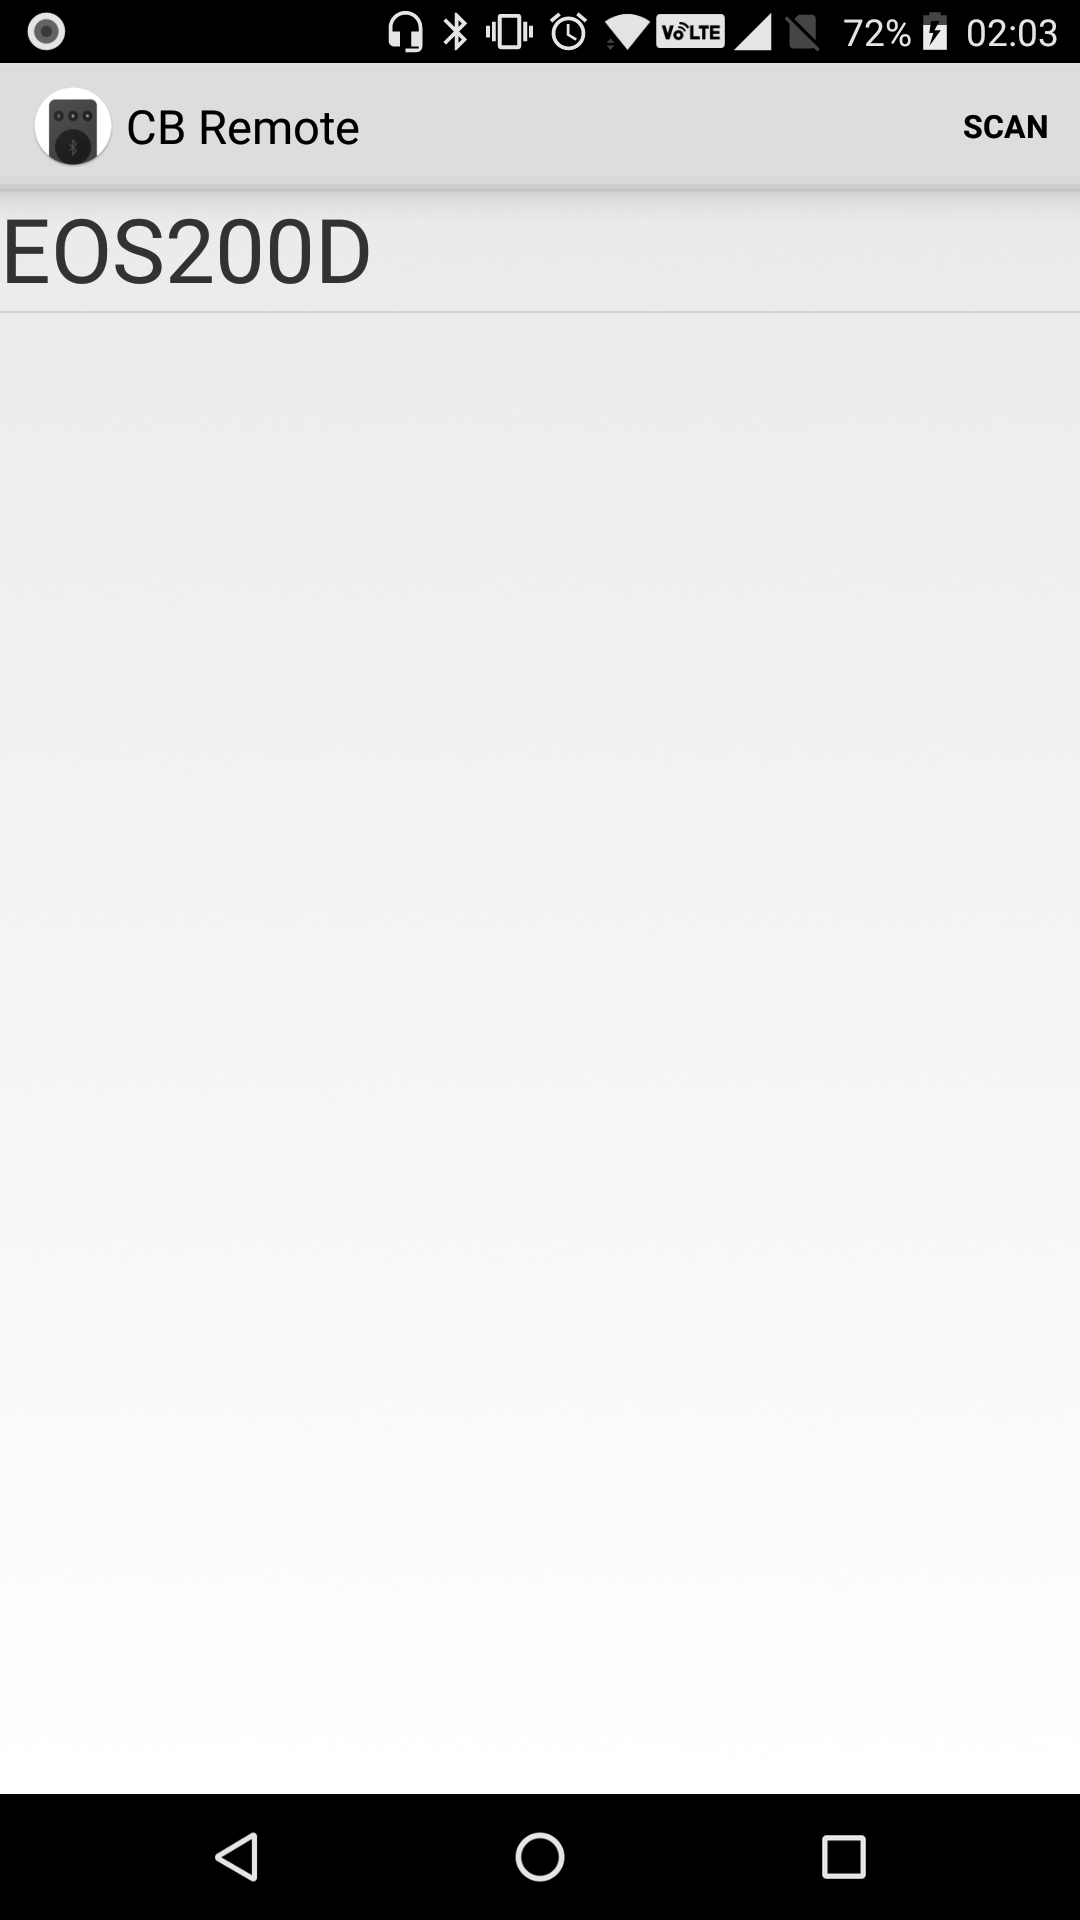
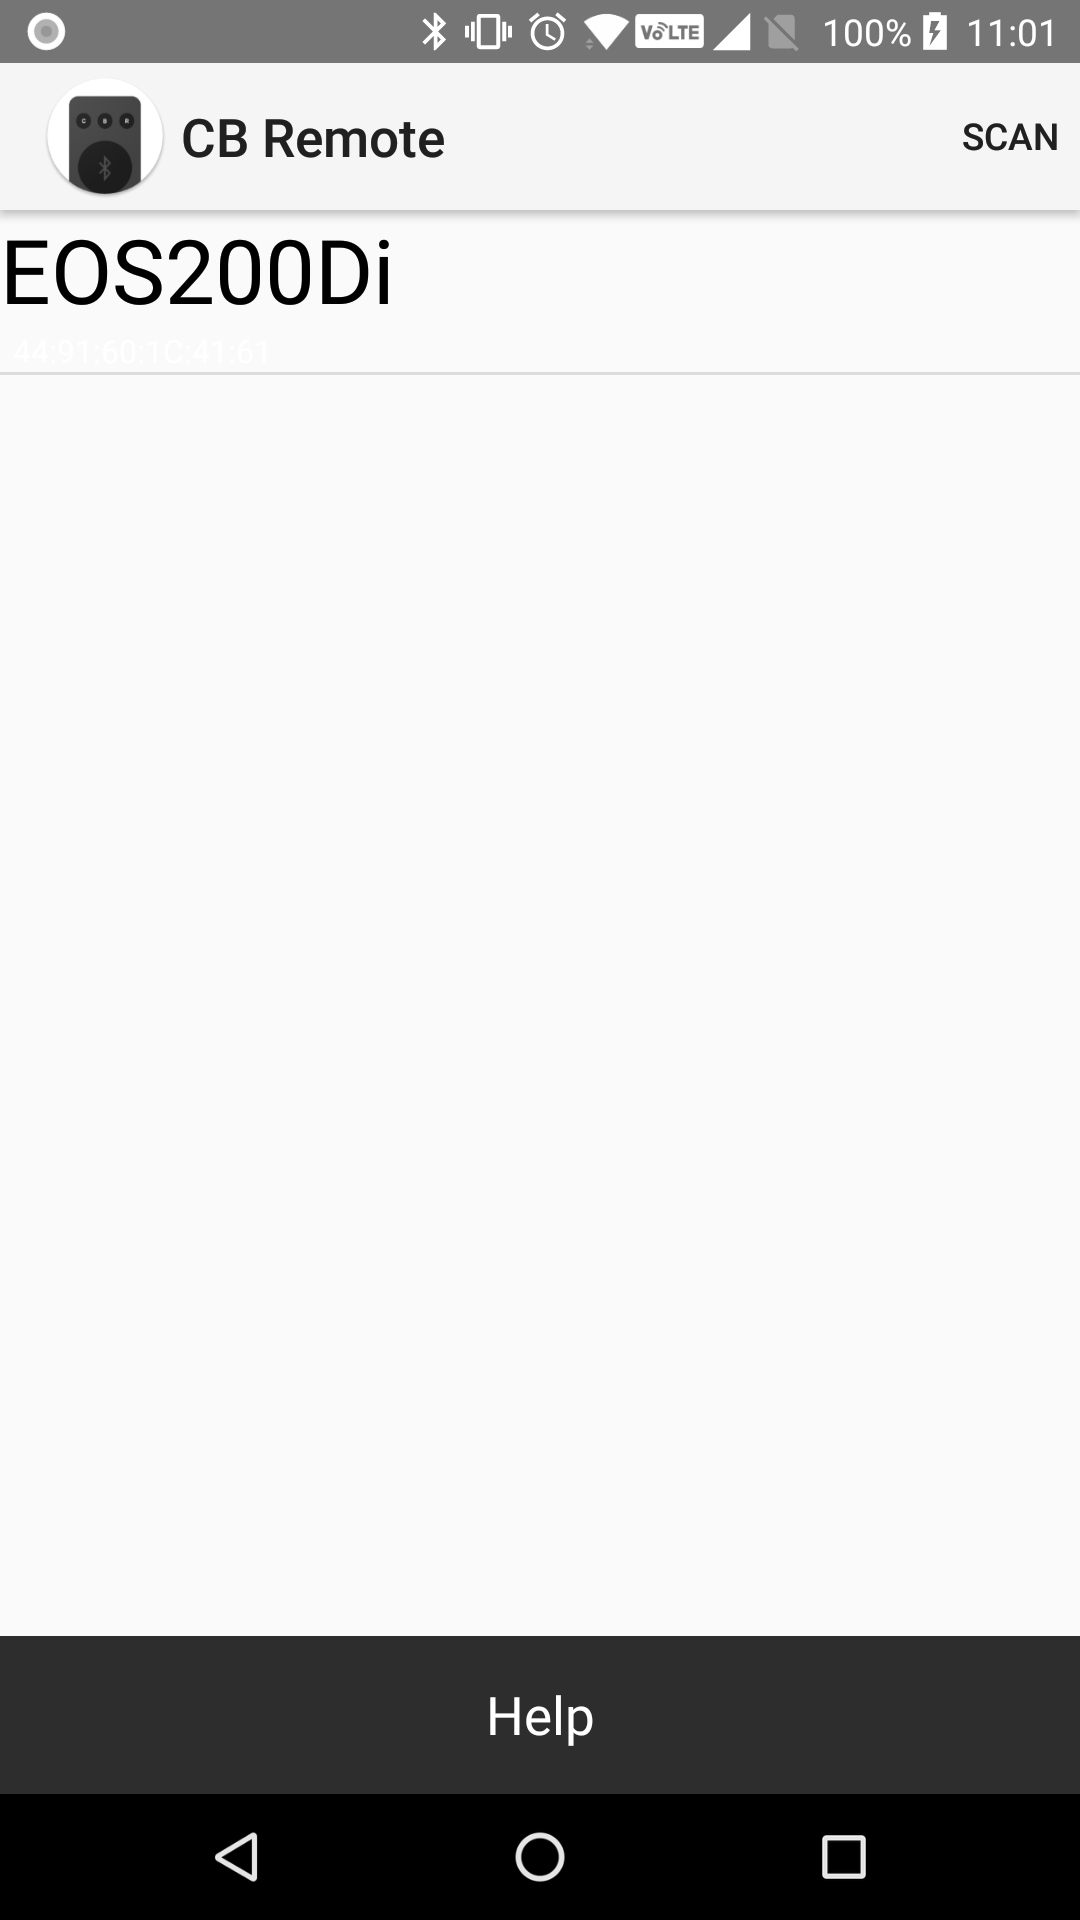
version 1.0.0-beta release

Changed region(s): [[0.0, 0.0, 1.0, 0.1562], [0.0, 0.8438, 1.0, 0.9375]]

diff --git a/Application/src/main/java/com/iebyt/cbremote/CBRMainActivity.java b/Application/src/main/java/com/iebyt/cbremote/CBRMainActivity.java
@@ -8,9 +8,11 @@ import android.bluetooth.BluetoothManager;
 import android.bluetooth.le.BluetoothLeScanner;
 import android.bluetooth.le.ScanCallback;
 import android.bluetooth.le.ScanResult;
+import android.content.BroadcastReceiver;
 import android.content.Context;
 import android.content.DialogInterface;
 import android.content.Intent;
+import android.content.IntentFilter;
 import android.content.pm.PackageManager;
 import android.graphics.Color;
 import android.graphics.PorterDuff;
@@ -153,6 +155,10 @@ public class CBRMainActivity extends AppCompatActivity {
     protected void onResume() {
         super.onResume();
 
+        IntentFilter intentFilter = new IntentFilter();
+        intentFilter.addAction(BluetoothAdapter.ACTION_STATE_CHANGED);
+        registerReceiver(broadcastReceiver,intentFilter);
+
         // Ensures Bluetooth is enabled on the device.  If Bluetooth is not currently enabled,
         // fire an intent to display a dialog asking the user to grant permission to enable it.
 
@@ -179,7 +185,7 @@ public class CBRMainActivity extends AppCompatActivity {
             mLeDeviceListAdapter = new CBRMainActivity.LeDeviceListAdapter();
 //            setListAdapter(mLeDeviceListAdapter);
             listView.setAdapter(mLeDeviceListAdapter);
-            scanLeDevice(true);
+//            scanLeDevice(true);
         }
     }
 
@@ -204,7 +210,7 @@ public class CBRMainActivity extends AppCompatActivity {
         } catch (Exception e) {
 
         }
-
+        unregisterReceiver(broadcastReceiver);
     }
 
 
@@ -407,5 +413,27 @@ public class CBRMainActivity extends AppCompatActivity {
         Intent browserIntent = new Intent(Intent.ACTION_VIEW, Uri.parse("https://github.com/iebyt/cbremote/blob/master/README.md#supported-canon-cameras"));
         startActivity(browserIntent);
     }
+
+    private BroadcastReceiver broadcastReceiver=new BroadcastReceiver() {
+        @Override
+        public void onReceive(Context context, Intent intent) {
+            final String action = intent.getAction();
+            if (action.equals(BluetoothAdapter.ACTION_STATE_CHANGED)) {
+                final int state = intent.getIntExtra(BluetoothAdapter.EXTRA_STATE,
+                        BluetoothAdapter.ERROR);
+                switch (state) {
+                    case BluetoothAdapter.STATE_OFF:
+                        break;
+                    case BluetoothAdapter.STATE_TURNING_OFF:
+                        break;
+                    case BluetoothAdapter.STATE_ON:
+                        scanLeDevice(true);
+                        break;
+                    case BluetoothAdapter.STATE_TURNING_ON:
+                        break;
+                }
+            }
+        }
+    };
 
 }
